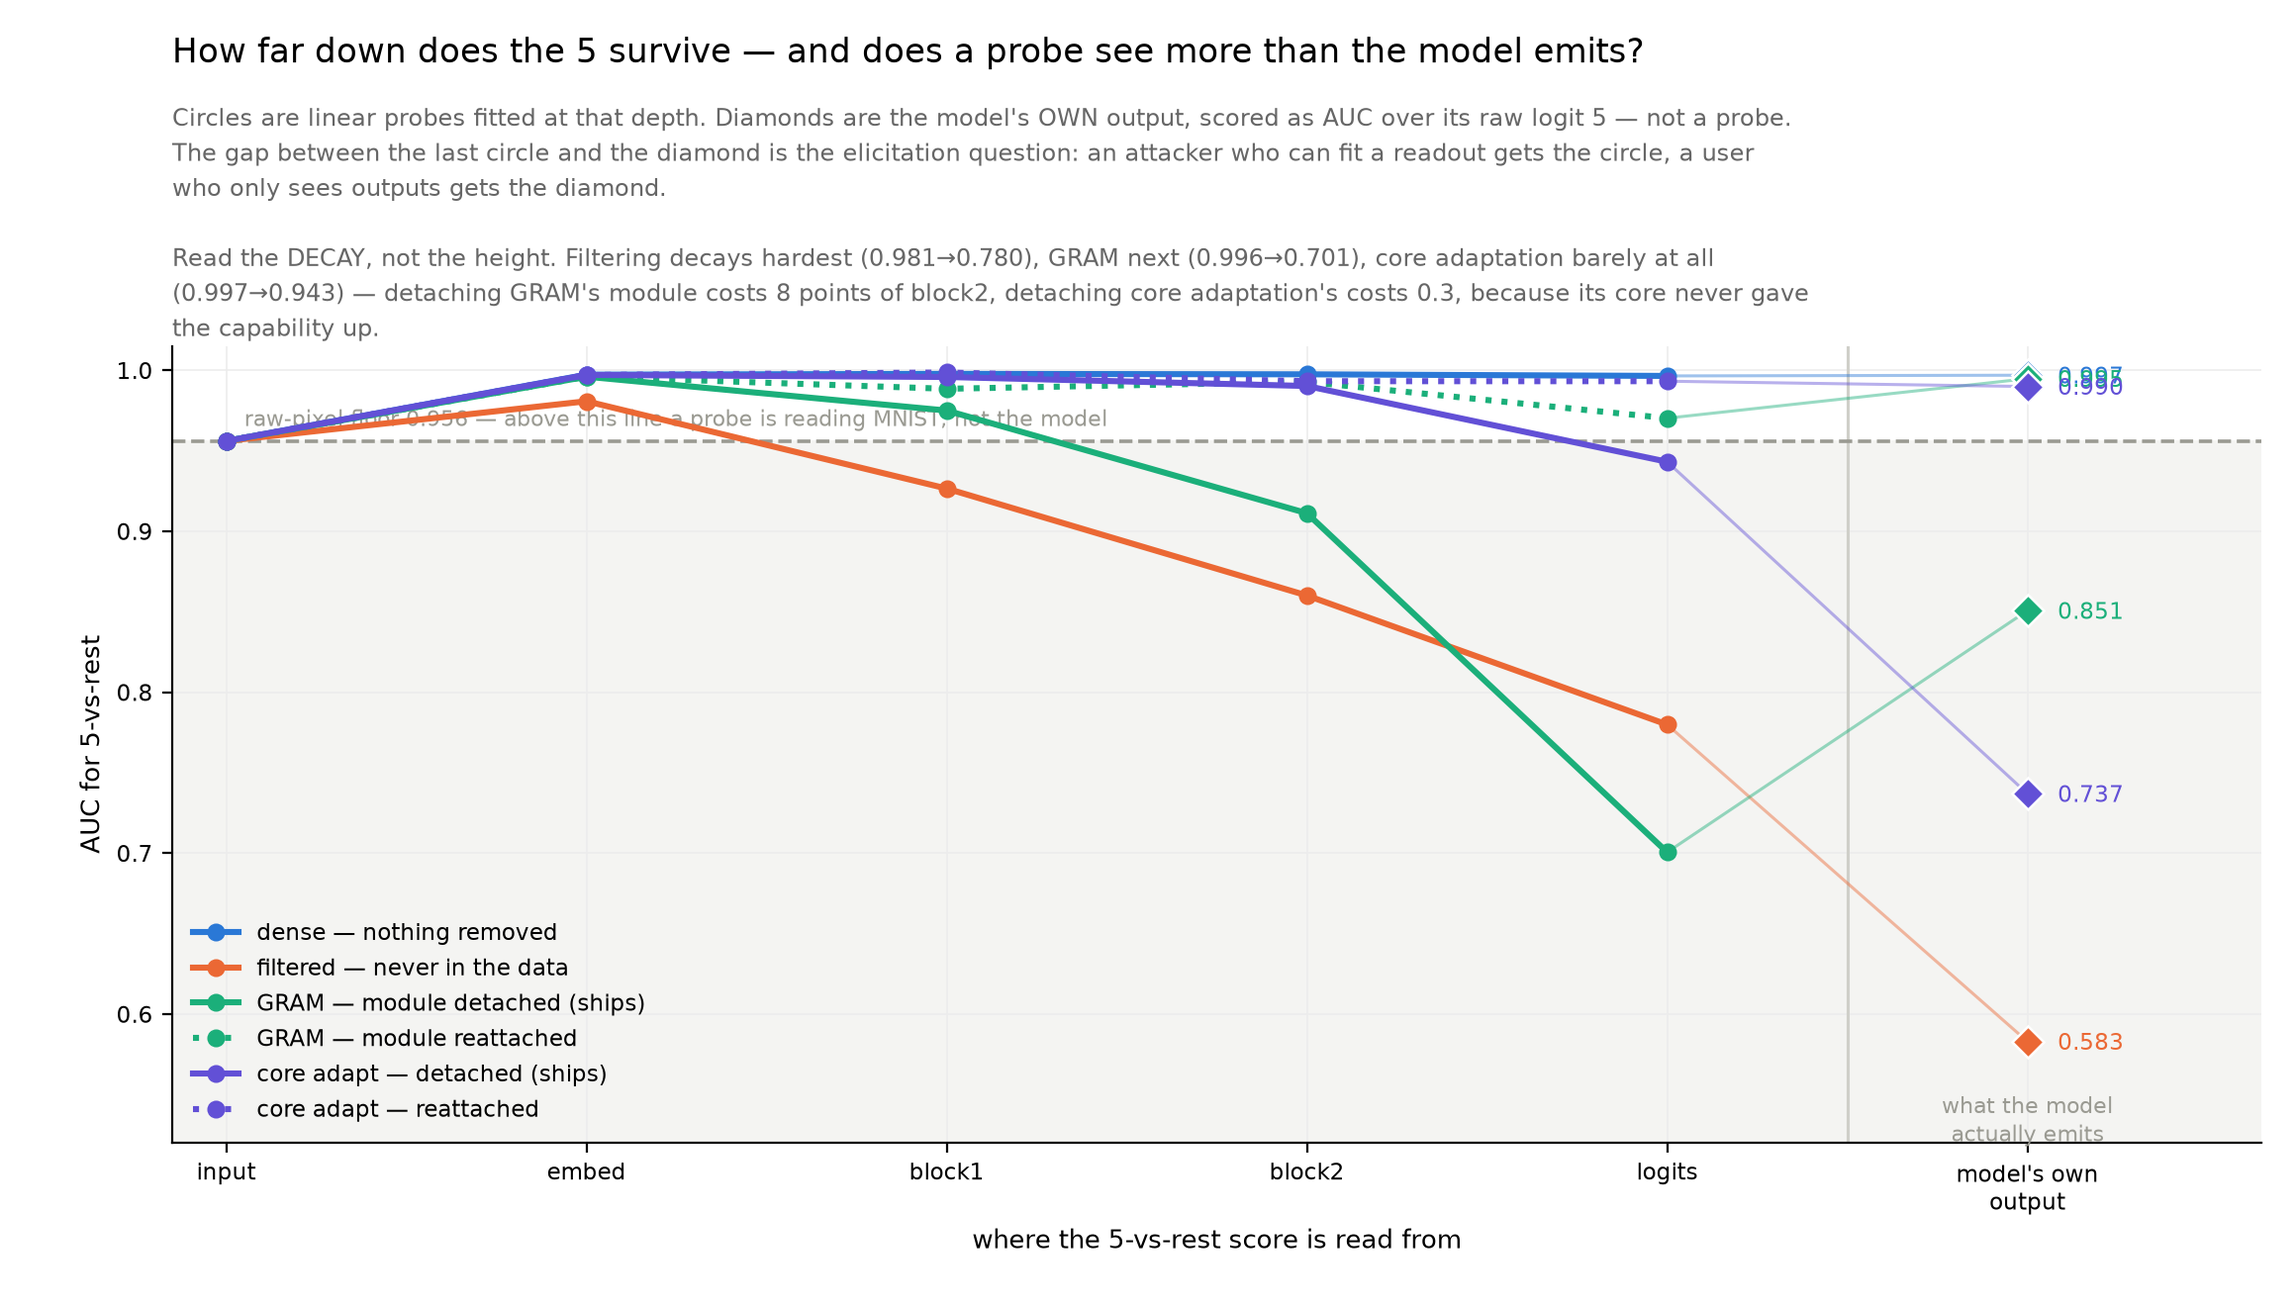
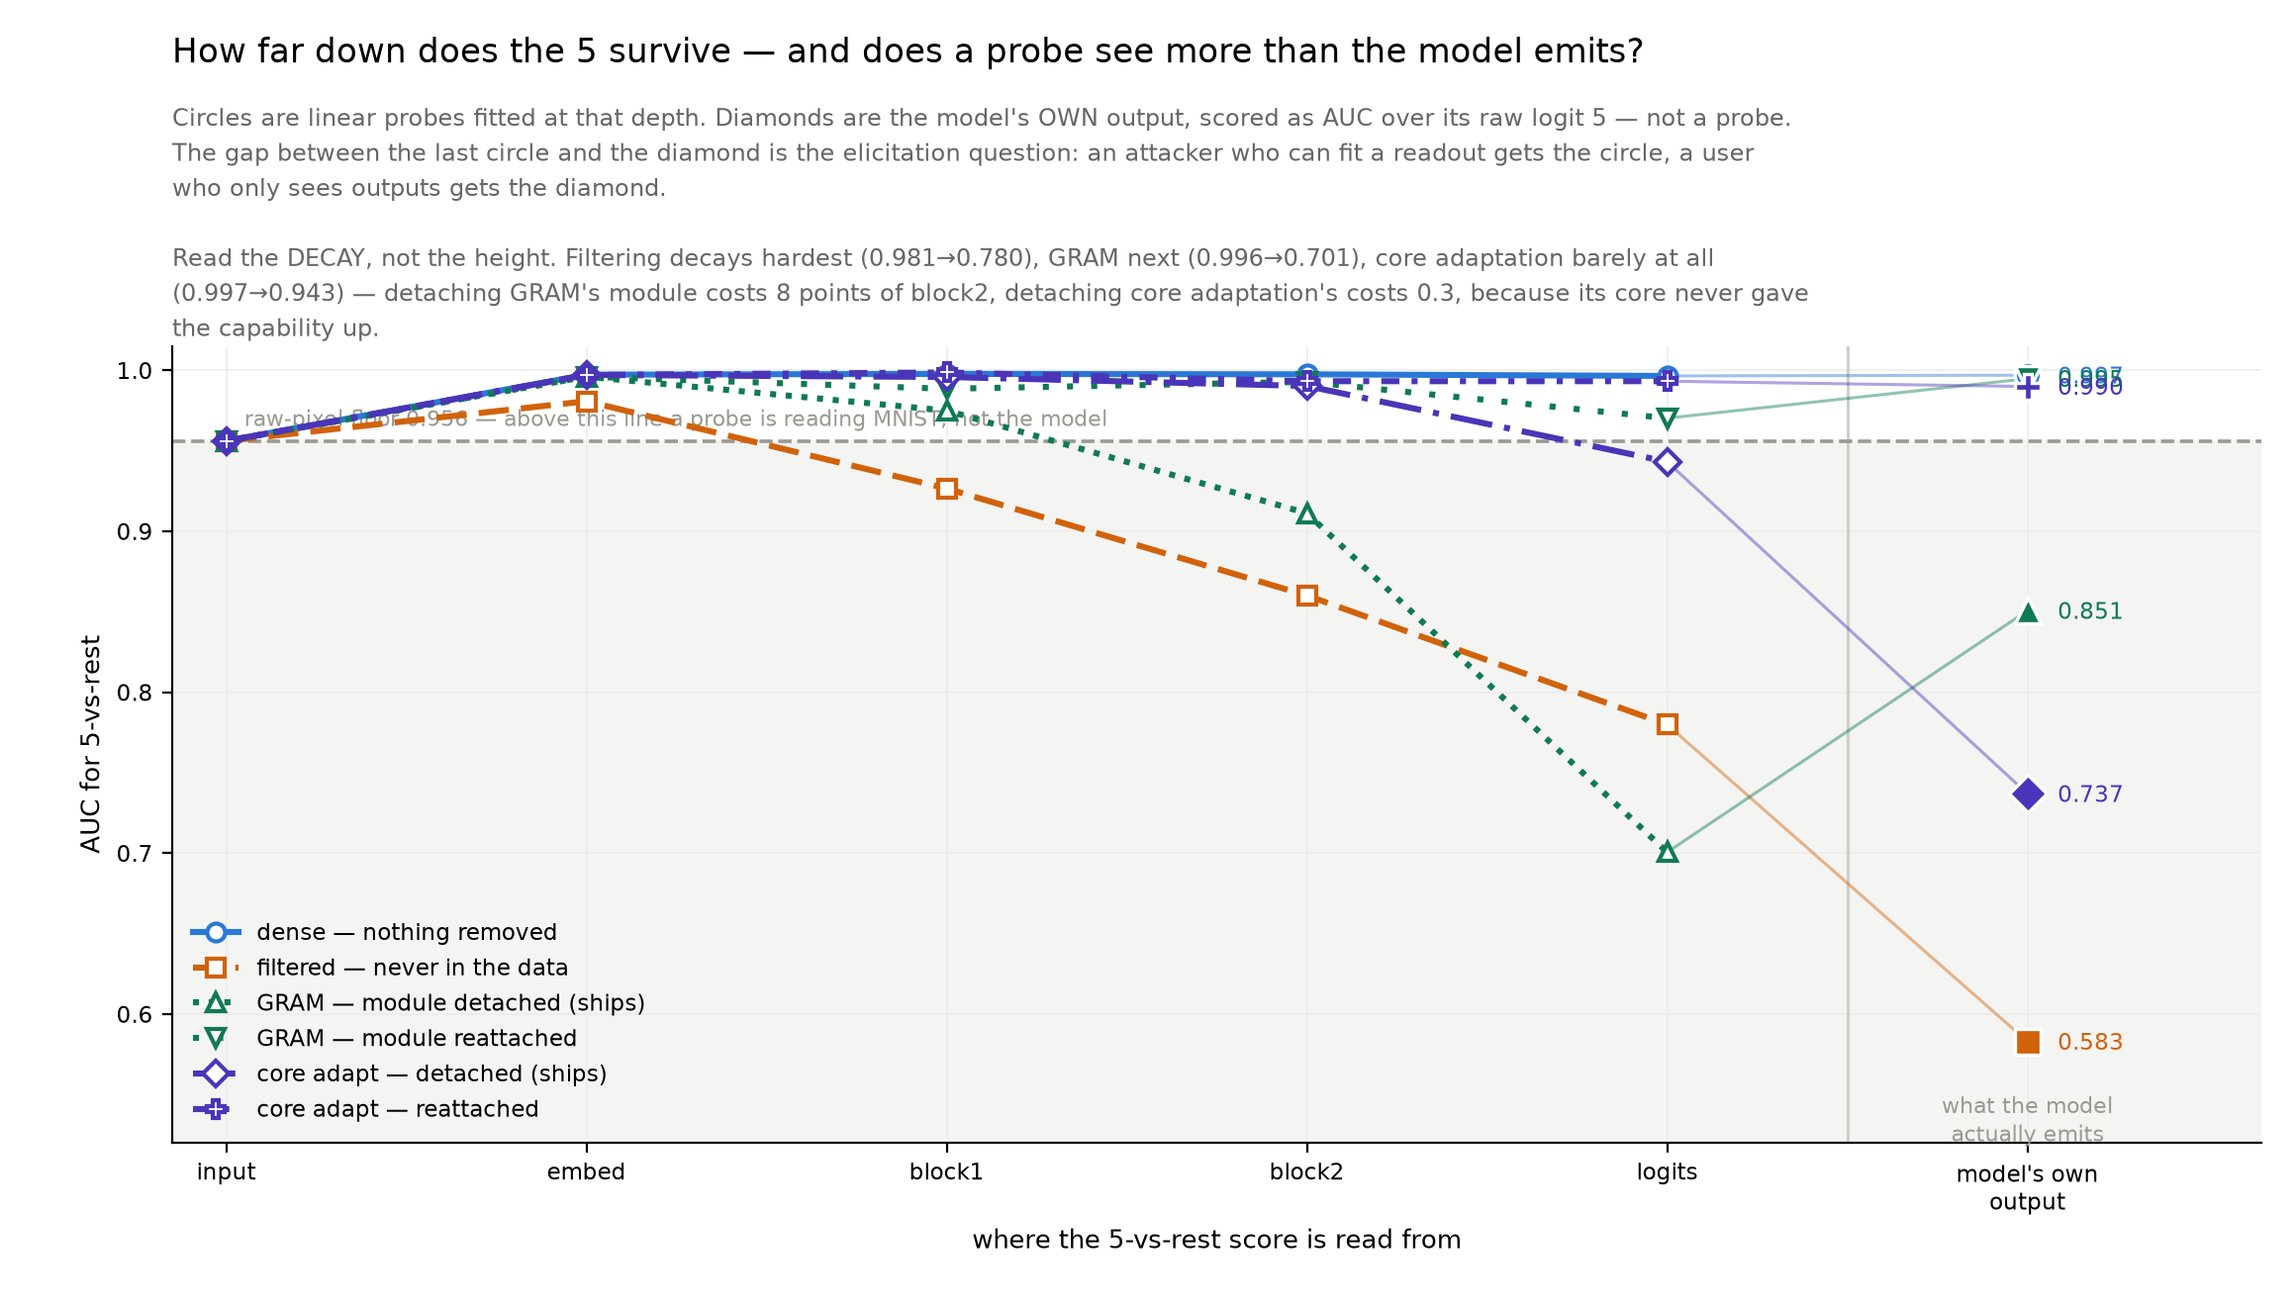
Make the figures readable in black and white, and get labels off the lines
Two complaints, both correct. Labels were sitting on top of the curves, and identity was
carried by COLOUR ALONE -- which dies in a printed deck, in a photocopy, and for a
colour-blind reader. The four house colours have luminances of 74, 86, 107 and 121, so in
greyscale they are four similar mid-greys.

figlang.STYLE now gives every arm a distinct LINE STYLE and MARKER, with colour as the
redundant third channel:

  dense            solid,          open circle
  filtered         dashed,         open square
  GRAM             dotted,         open triangle
  core adaptation  dash-dot-dot,   open diamond

Markers are drawn open on a white face so overlapping series stay separable, and placed
only at tick positions so the dense early sampling does not turn into a smear.

Layout: the legend moved outside the axes to its own row beneath the panels, and the
steps-to-recover numbers moved to a strip under that, so nothing is drawn over a curve.

Verified by rendering each figure to greyscale and reading it. probe_depth and steering
failed that check and are fixed here; compare_pareto, probe_vs_readout and ca_pareto
already passed because they distinguish arms by marker shape and hollow/filled.

diff --git a/figs_retrain_curve.py b/figs_retrain_curve.py
@@ -1,15 +1,15 @@
-"""How fast does retraining undo each removal? Densely sampled so the answer is visible.
+"""How fast does retraining undo each removal? Densely sampled, legible in black and white.
 
 Reads results/rc_r*_s*_best.json.
 
-The previous version of this figure logged every 25 steps and every arm was already at
-0.98-0.99 by the first logged point: the whole recovery happened inside one unsampled gap,
-so the curve that looked slowest was simply the one that started lowest. This logs EVERY
-step for the first 40. It also attacks each method at its own BEST-FORGETTING setting rather
-than at library defaults, and sweeps two attacker learning rates keeping the better, because
-a single rate made 'filtered' look unrecoverable when that rate simply broke the model.
+Identity is carried by LINE STYLE and MARKER first and colour second, so the figure survives
+greyscale printing and colour blindness. The legend sits outside the axes and the
+steps-to-recover numbers live in their own panel rather than on top of the curves, because an
+earlier version put both over the lines and they were unreadable.
 
-Every point is gated on the model staying useful (non-5 accuracy >= 95%).
+An earlier version also logged only every 25 steps, by which point every arm was already at
+0.98: the whole recovery sat inside one unsampled gap, so the curve that looked slowest was
+simply the one that started lowest. Every step to 40 is logged here.
 """
 import glob
 import json
@@ -20,6 +20,7 @@ import matplotlib
 matplotlib.use("Agg")
 import matplotlib.pyplot as plt
 import numpy as np
+from matplotlib.lines import Line2D
 
 import figlang as L
 
@@ -28,74 +29,88 @@ runs = defaultdict(list)
 for f in glob.glob(f"{HERE}/results/rc_r*_best.json"):
     d = json.load(open(f))
     runs[d["rate"]].append(d)
-ARMS = [("dense", "dense — nothing removed", L.C["dense"]),
-        ("filtered", "filtered — never in the data", L.C["filtered"]),
-        ("gram", "GRAM — best-forgetting setting", L.C["gram"]),
-        ("coreadapt", "core adaptation — best-forgetting setting", L.C["coreadapt"])]
+ARMS = ["dense", "filtered", "gram", "coreadapt"]
 RATES = sorted(runs)
 INK, GREY = L.C["ink"], L.C["grey"]
+TICKS = [0, 2, 5, 10, 20, 40, 100, 300]
 
-fig, axes = plt.subplots(1, len(RATES), figsize=(12.6, 5.6), dpi=200, squeeze=False)
-fig.subplots_adjust(left=0.065, right=0.985, top=0.690, bottom=0.135, wspace=0.17)
+fig, axes = plt.subplots(1, len(RATES), figsize=(12.4, 5.9), dpi=200, squeeze=False)
+fig.subplots_adjust(left=0.070, right=0.985, top=0.760, bottom=0.200, wspace=0.14)
 
-lines = []
+summary = {}
 for col, rate in enumerate(RATES):
     ax = axes[0][col]
     ds = runs[rate]
     dense_end = np.mean([d["curves"]["dense"][-1][1] for d in ds if "dense" in d["curves"]])
     tgt = 0.95 * dense_end
-    ax.axhline(tgt, color=GREY, lw=1.2, ls="--", zorder=2)
-    ax.text(300, tgt + 0.008, "95% of dense", fontsize=7.6, color=GREY, ha="right")
-    for key, label, colour in ARMS:
+    ax.axhline(tgt, color="#555555", lw=1.1, ls=(0, (2, 2)), zorder=2)
+    ax.text(310, tgt + 0.009, "95% of dense", fontsize=8.0, color="#555555", ha="right")
+
+    for key in ARMS:
         cs = [d["curves"][key] for d in ds if key in d["curves"]]
         if not cs:
             continue
         n = min(len(c) for c in cs)
         steps = [c[0] for c in cs[0][:n]]
         y = np.mean([[r[1] for r in c[:n]] for c in cs], axis=0)
-        ax.plot(steps, y, color=colour, lw=2.2, zorder=4,
-                label=label if col == 0 else None)
-        ax.plot(steps[0], y[0], "o", color=colour, ms=6, zorder=5)
-        # first step reaching the target, per seed, gated
-        hit = []
-        for c in cs:
-            h = next((s for s, a, ao in c if a >= tgt and ao >= 0.95), None)
-            hit.append(h)
+        st = L.STYLE[key]
+        # markers only on a subset of points, so dense early sampling stays readable
+        mk_at = [i for i, s_ in enumerate(steps) if s_ in TICKS]
+        ax.plot(steps, y, color=st["color"], ls=st["ls"], lw=st["lw"], zorder=4,
+                marker=st["marker"], ms=st["ms"], markevery=mk_at,
+                markerfacecolor="white", markeredgewidth=1.5)
+        hit = [next((s_ for s_, a_, ao in c if a_ >= tgt and ao >= 0.95), None) for c in cs]
         got = [h for h in hit if h is not None]
-        if got:
-            ax.axvline(np.mean(got), color=colour, lw=1.0, ls=":", alpha=0.6, zorder=3)
-            ax.annotate(f"{np.mean(got):.0f} steps", (np.mean(got), 0.435),
-                        fontsize=8.0, color=colour, ha="left", va="bottom",
-                        xytext=(4, 0), textcoords="offset points")
+        summary[(rate, key)] = (np.mean(got) if got else None, len(got), len(hit))
+
     ax.set_xscale("symlog", linthresh=10)
-    ax.set_xticks([0, 2, 5, 10, 20, 40, 100, 300])
-    ax.set_xticklabels(["0", "2", "5", "10", "20", "40", "100", "300"], fontsize=8.3)
-    ax.set_xlim(-0.3, 320)
-    ax.set_ylim(0.40, 1.03)
-    ax.set_xlabel("fine-tuning steps  (log-ish scale, every step logged to 40)", fontsize=9)
+    ax.set_xticks(TICKS)
+    ax.set_xticklabels([str(t) for t in TICKS], fontsize=8.6)
+    ax.set_xlim(-0.3, 330)
+    ax.set_ylim(0.38, 1.04)
+    ax.set_xlabel("fine-tuning steps", fontsize=9.4)
     if col == 0:
-        ax.set_ylabel("READOUT — AUC over the model's own logit 5", fontsize=9.2)
+        ax.set_ylabel("READOUT — AUC over the model's own logit 5", fontsize=9.4)
     ax.set_title("clean labels" if rate == 0 else f"{rate:.0%} of 5s mislabeled",
-                 fontsize=10.2, color=INK, loc="left")
+                 fontsize=10.6, color=INK, loc="left")
     ax.grid(True, color="#ececec", lw=0.6, zorder=0)
     ax.set_axisbelow(True)
     for sp in ("top", "right"):
         ax.spines[sp].set_visible(False)
-    ax.tick_params(labelsize=8.3)
-axes[0][0].legend(fontsize=8.3, frameon=False, loc="lower right", labelspacing=0.55)
+    ax.tick_params(labelsize=8.6)
 
-fig.suptitle("Core adaptation retrains FASTEST — it is the only route that comes back",
-             fontsize=12.8, x=0.065, ha="left", y=0.968)
-fig.text(0.065, 0.922,
-         "Attacker has 50 labeled 5s and fine-tunes the shipped model; every point is gated "
-         "on the model staying useful (non-5 accuracy ≥ 95%).\nEach method is at its OWN "
+# legend OUTSIDE the axes, one row, so it cannot sit on a curve
+handles = [Line2D([], [], color=L.STYLE[k]["color"], ls=L.STYLE[k]["ls"],
+                  lw=L.STYLE[k]["lw"], marker=L.STYLE[k]["marker"], ms=L.STYLE[k]["ms"],
+                  markerfacecolor="white", markeredgewidth=1.5, label=L.LABEL[k])
+           for k in ARMS]
+fig.legend(handles=handles, loc="lower center", bbox_to_anchor=(0.5, 0.095), ncol=4,
+           frameon=False, fontsize=9.0, handlelength=3.4, columnspacing=2.2)
+
+# steps-to-recover in its own strip, not on top of the lines
+def cell(rate, key):
+    v = summary.get((rate, key))
+    if v is None or v[0] is None:
+        return "never"
+    s = f"{v[0]:.0f}"
+    return s if v[1] == v[2] else f"{s}  ({v[2]-v[1]}/{v[2]} never)"
+
+
+txt = "steps to reach 95% of dense:     " + "     ".join(
+    f"{'clean' if r == 0 else f'{r:.0%} noise'} — " +
+    ", ".join(f"{L.LABEL[k].split(' —')[0]} {cell(r, k)}" for k in ARMS[1:])
+    for r in RATES)
+fig.text(0.5, 0.028, txt, fontsize=8.6, color=INK, ha="center")
+
+fig.suptitle("Core adaptation retrains fastest — the only route that comes back",
+             fontsize=13.0, x=0.070, ha="left", y=0.970)
+fig.text(0.070, 0.930,
+         "Attacker has 50 labeled 5s and fine-tunes the shipped model. Every point is gated "
+         "on the model staying useful (non-5 accuracy ≥ 95%).\nEach method sits at its OWN "
          "best-forgetting setting, not a library default, and the attacker gets the better "
-         "of two learning rates.\n\n"
-         "An earlier version of this figure logged every 25 steps, by which point every arm "
-         "was already at 0.98 — the whole recovery sat inside\none unsampled gap, and the "
-         "curve that looked slowest was just the one that started lowest. Every step to 40 "
-         "is logged here.",
-         fontsize=8.5, color="#666666", linespacing=1.5, va="top")
+         "of two learning rates.\nEvery step is logged to 40: an earlier version sampled "
+         "every 25 steps and the whole recovery fell inside one unsampled gap.",
+         fontsize=8.7, color="#666666", linespacing=1.55, va="top")
 out = f"{HERE}/figures/retrain_curve.png"
 fig.savefig(out)
 print(out)

diff --git a/figs_probe.py b/figs_probe.py
@@ -32,13 +32,14 @@ HERE = os.path.dirname(os.path.abspath(__file__))
 D = json.load(open(f"{HERE}/results/instruments3.json"))
 STAGES = ["input", "embed", "block1", "block2", "logits"]
 COLS = STAGES + ["model's own\noutput"]
+# identity by line style AND marker first, colour second, so the panel survives greyscale
 ROWS = [
-    ("dense",         "dense — nothing removed",        "#2a78d6", "-"),
-    ("filtered",      "filtered — never in the data",   "#eb6834", "-"),
-    ("gram_OFF",      "GRAM — module detached (ships)", "#1baf7a", "-"),
-    ("gram_ON",       "GRAM — module reattached",       "#1baf7a", ":"),
-    ("coreadapt_OFF", "core adapt — detached (ships)",  "#6250d6", "-"),
-    ("coreadapt_ON",  "core adapt — reattached",        "#6250d6", ":"),
+    ("dense",         "dense — nothing removed",        "#2a78d6", "-",               "o"),
+    ("filtered",      "filtered — never in the data",   "#d1620a", (0, (5, 2)),       "s"),
+    ("gram_OFF",      "GRAM — module detached (ships)", "#0f7a53", (0, (1, 1.6)),     "^"),
+    ("gram_ON",       "GRAM — module reattached",       "#0f7a53", (0, (1, 3)),       "v"),
+    ("coreadapt_OFF", "core adapt — detached (ships)",  "#4a35b8", (0, (7, 2, 1, 2)), "D"),
+    ("coreadapt_ON",  "core adapt — reattached",        "#4a35b8", (0, (3, 2, 1, 2)), "P"),
 ]
 INK, GREY = "#333333", "#9a9a92"
 FLOOR = D["probe"]["dense"]["input"]
@@ -57,13 +58,14 @@ ax.text(5.0, 0.515, "what the model\nactually emits", fontsize=8.0, color=GREY,
         ha="center", va="bottom", linespacing=1.4)
 
 x = list(range(len(STAGES)))
-for key, label, colour, ls in ROWS:
+for key, label, colour, ls, mk in ROWS:
     y = [D["probe"][key][s] for s in STAGES]
-    ax.plot(x, y, color=colour, lw=2.2, ls=ls, marker="o", ms=5.5, label=label, zorder=4)
+    ax.plot(x, y, color=colour, lw=2.2, ls=ls, marker=mk, ms=6.5, label=label, zorder=4,
+            markerfacecolor="white", markeredgewidth=1.5)
     nat = D["probe"][key]["native_auroc"]
     ax.plot([4, 5], [y[-1], nat], color=colour, lw=1.1, ls="-", alpha=0.45, zorder=3)
-    ax.plot(5, nat, marker="D", ms=8, color=colour, zorder=6,
-            markeredgecolor="white", markeredgewidth=0.9)
+    ax.plot(5, nat, marker=mk, ms=9.5, color=colour, zorder=6,
+            markeredgecolor="white", markeredgewidth=1.2)
     ax.annotate(f"{nat:.3f}", (5, nat), xytext=(11, -3), textcoords="offset points",
                 fontsize=8.2, color=colour)
 
@@ -95,6 +97,6 @@ fig.text(0.075, 0.922,
 out = f"{HERE}/figures/probe_depth.png"
 fig.savefig(out)
 print(out)
-for k, lab, _, _ in ROWS:
+for k, lab, _c, _ls, _mk in ROWS:
     print(f"  {k:>14}: probe@logits {D['probe'][k]['logits']:.3f}   own output "
           f"{D['probe'][k]['native_auroc']:.3f}   (gap {D['probe'][k]['logits'] - D['probe'][k]['native_auroc']:+.3f})")

diff --git a/figs_steer.py b/figs_steer.py
@@ -25,10 +25,11 @@ import matplotlib.pyplot as plt
 
 HERE = os.path.dirname(os.path.abspath(__file__))
 D = json.load(open(f"{HERE}/results/instruments3.json"))
-SHOW = [("dense", "dense — nothing removed", "#2a78d6"),
-        ("filtered", "filtered — never in the data", "#eb6834"),
-        ("gram_OFF", "GRAM — module detached (ships)", "#1baf7a"),
-        ("coreadapt_OFF", "core adapt — detached (ships)", "#6250d6")]
+# line style and marker carry identity; colour is redundant so this reads in greyscale
+SHOW = [("dense", "dense — nothing removed", "#2a78d6", "-", "o"),
+        ("filtered", "filtered — never in the data", "#d1620a", (0, (5, 2)), "s"),
+        ("gram_OFF", "GRAM — module detached (ships)", "#0f7a53", (0, (1, 1.6)), "^"),
+        ("coreadapt_OFF", "core adapt — detached (ships)", "#4a35b8", (0, (7, 2, 1, 2)), "D")]
 INK, GREY = "#333333", "#9a9a92"
 alphas = sorted(D["steer"]["dense"]["self_dm"], key=float)
 xa = [float(a) for a in alphas]
@@ -37,13 +38,15 @@ fig, (ax, bx) = plt.subplots(1, 2, figsize=(12.8, 5.9), dpi=200,
                              gridspec_kw={"width_ratios": [1.25, 1]})
 fig.subplots_adjust(left=0.065, right=0.985, top=0.715, bottom=0.135, wspace=0.21)
 
-for key, label, colour in SHOW:
+for key, label, colour, ls, mk in SHOW:
     sd = [D["steer"][key]["self_dm"][a]["auc5"] for a in alphas]
     rd = [D["steer"][key]["random"][a]["auc5"] for a in alphas]
-    ax.plot(xa, sd, color=colour, lw=2.3, marker="o", ms=5.5, zorder=4, label=label)
-    ax.plot(xa, rd, color=colour, lw=1.4, ls=":", marker="^", ms=4.5, alpha=0.6, zorder=3)
-    ax.plot(xa[0], sd[0], marker="*", ms=15, color=colour, zorder=6,
-            markeredgecolor="white", markeredgewidth=0.8)
+    ax.plot(xa, sd, color=colour, lw=2.3, ls=ls, marker=mk, ms=6.5, zorder=4, label=label,
+            markerfacecolor="white", markeredgewidth=1.5)
+    ax.plot(xa, rd, color=colour, lw=1.2, ls=(0, (1, 2)), marker=mk, ms=4.0, alpha=0.55,
+            zorder=3)
+    ax.plot(xa[0], sd[0], marker="*", ms=16, color=colour, zorder=6,
+            markeredgecolor="white", markeredgewidth=0.9)
 
 ax.axhline(0.5, color=GREY, lw=1.1, ls="--", zorder=1)
 ax.text(7.8, 0.515, "chance", fontsize=7.8, color=GREY, ha="right")
@@ -58,7 +61,7 @@ ax.legend(fontsize=8.2, frameon=False, loc="lower left", labelspacing=0.5)
 
 # right: how much does the learned direction buy over its own matched-norm control?
 w = 0.19
-for i, (key, label, colour) in enumerate(SHOW):
+for i, (key, label, colour, _ls, _mk) in enumerate(SHOW):
     d = [D["steer"][key]["self_dm"][a]["auc5"] - D["steer"][key]["random"][a]["auc5"]
          for a in alphas]
     bx.bar([j + (i - 1.5) * w for j in range(len(alphas))], d, width=w, color=colour,

diff --git a/figlang.py b/figlang.py
@@ -50,3 +50,20 @@ PARETO_NOTE = ("Only the best trade-offs are shown — a setting appears if noth
 # house colours, so arms are the same colour in every figure
 C = {"dense": "#2a78d6", "filtered": "#eb6834", "gram": "#1baf7a",
      "coreadapt": "#6250d6", "grey": "#9a9a92", "ink": "#333333"}
+
+
+# Identity must survive black-and-white printing and colour blindness, so every arm carries
+# a distinct LINE STYLE and MARKER as well as a colour, and the greys below are chosen to be
+# distinguishable in luminance alone. Colour is the redundant channel, never the only one.
+STYLE = {
+    "dense":     dict(color="#2a78d6", ls="-",            marker="o", lw=2.0, ms=5.5),
+    "filtered":  dict(color="#d1620a", ls=(0, (5, 2)),    marker="s", lw=2.0, ms=5.0),
+    "gram":      dict(color="#0f7a53", ls=(0, (1, 1.6)),  marker="^", lw=2.4, ms=5.5),
+    "coreadapt": dict(color="#4a35b8", ls=(0, (7, 2, 1, 2)), marker="D", lw=2.0, ms=4.8),
+}
+LABEL = {
+    "dense": "dense — nothing removed",
+    "filtered": "filtered — never in the data",
+    "gram": "GRAM",
+    "coreadapt": "core adaptation",
+}
